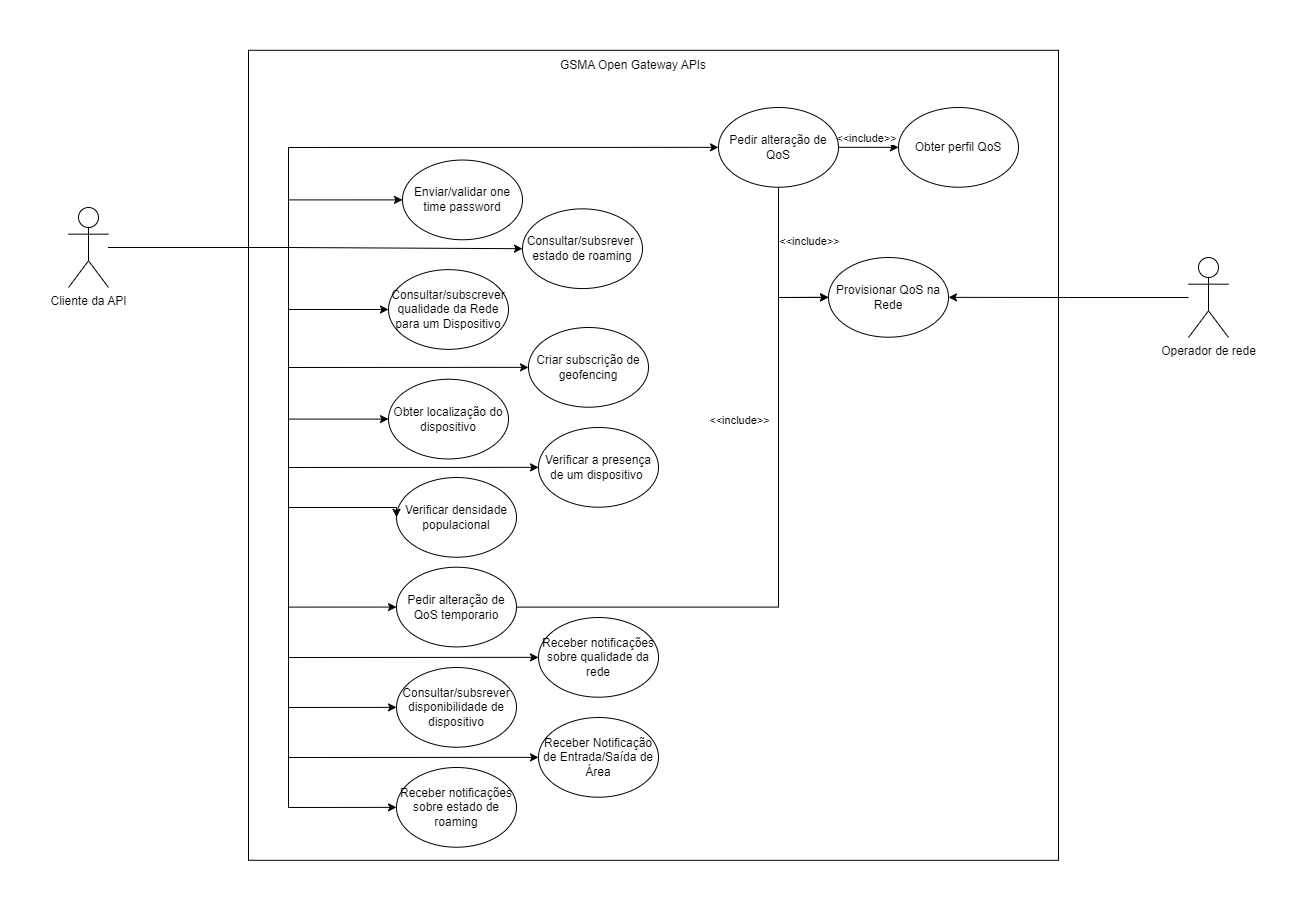
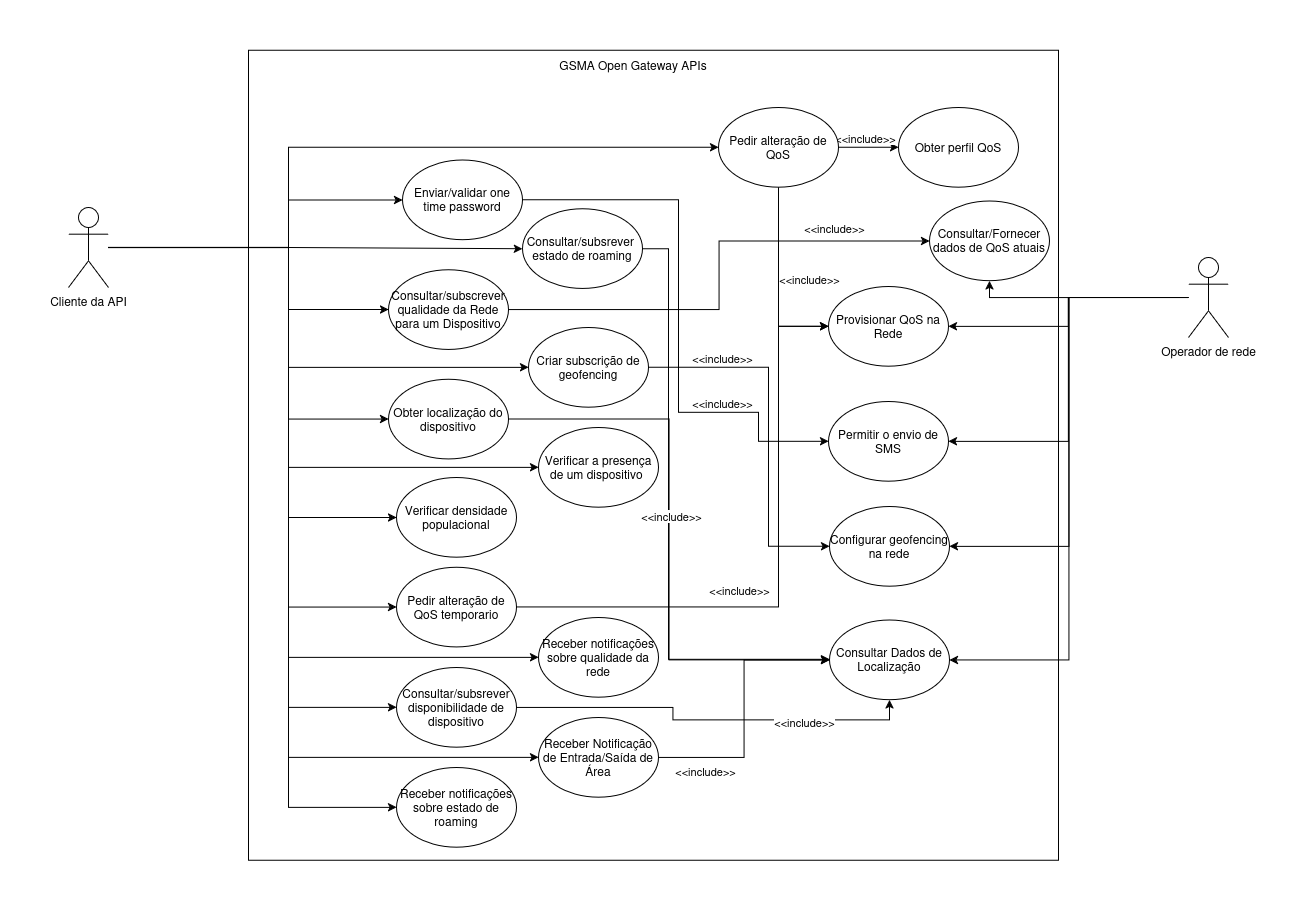
feat(report): Update use cases

diff --git a/report/use-cases.tex b/report/use-cases.tex
@@ -11,7 +11,8 @@ darão ao sistema.
 Como já foi referido, a criação de \emph{APIs GSMA Open Gateway} visa facilitar
 a utilização programática dos diversos recursos e funcionalidades que a rede
 \emph{5G} consegue oferecer. Deste modo, o sistema possui 2 atores distintos.
-\begin{itemize} \item \textbf{Operador de rede} - O primeiro ator a interagir
+\begin{itemize}
+	\item \textbf{Operador de rede} - O primeiro ator a interagir
 	      com o sistema é o operador de rede, que fornece as APIs a diversos outros
 	      negócios para que estes possam interagir com a rede programaticamente. No
 	      entanto, tendo em consideração que as APIs desenhadas pelo \emph{GSMA Open
@@ -50,21 +51,29 @@ Estes são apresentados no diagrama seguinte.
 	      produtos/serviços aos seus clientes, ou para manipular uma rede interna
 	      para melhor se adaptar às suas necessidades. Utilizando as APIs definidas
 	      pelo \emph{GSMA Open Gateway}, os diversos negócios podem:
-	      \begin{enumerate} \item Enviar/Validar One Time Passwords (OTPs), para (por
-		            exemplo) verificar a validade de um número de telefone via SMS \item
-		            Consultar ou subscrever o estado do roaming, de modo a ser possível
-		            verificar se um dispositivo se encontra em outro país. \item Consultar
-		            e/ou subscrever a qualidade da rede para um determinado dispositivo, de
-		            modo a saber se os requisitos de rede para a aplicação podem ser
-		            alcançados, caso seja subscrito, sempre que exista uma alteração na
-		            qualidade será enviada uma notificação.
-
-		      \item Obter a localização de um dado dispositivo \item Verificar a
-		            presença de um dispositivo, isto é, verificar se um determinado
-		            dispositivo se encontra dentro da área definida. \item Verificar a
-		            densidade populacional numa dada zona \item Pedir uma alteração de QoS,
-		            temporário ou não, devido à necessidade de uma largura de banda maior.
-		      \item Receber notificações sobre o estado da rede \item Receber
-		            notificações relativas à entrada ou saída de um dispositivo de uma dada
-		            área \item Subscrever/Consultar a disponibilidade de um dispositivo
+	      \begin{enumerate}
+		      \item Enviar/Validar One Time Passwords (OTPs), para (por exemplo)
+		            verificar a validade de um número de telefone via SMS
+		      \item Consultar ou subscrever o estado do roaming, de modo a ser
+		            possível verificar se um dispositivo se encontra em outro país.
+		      \item Consultar e/ou subscrever a qualidade da rede para um
+		            determinado dispositivo, de modo a saber se os requisitos de rede
+		            para a aplicação podem ser alcançados, caso seja subscrito, sempre
+		            que exista uma alteração na qualidade será enviada uma notificação.
+		      \item Obter a localização de um dado dispositivo
+		      \item Verificar a presença de um dispositivo, isto é, verificar se um
+		            determinado dispositivo se encontra dentro da área definida.
+		      \item Verificar a densidade populacional numa dada zona
+		      \item Ajustar dinamicamente a qualidade do vídeo e o desempenho da
+		            rede, através de geofencing e monitorização de qualidade, para
+		            garantir operações remotas seguras de embarcações em zonas
+		            portuárias congestionadas \cite{10620807}
+		      \item Pedir uma alteração de QoS, temporário ou não, devido à
+		            necessidade de uma largura de banda maior.
+		      \item Receber notificações sobre o estado da rede
+		      \item Receber notificações relativas à entrada ou saída de um
+		            dispositivo de uma dada área
+		      \item Subscrever/Consultar a disponibilidade de um dispositivo
+		      \item Alocar dinamicamente recursos da rede 5G para dar prioridade a
+		            comunicações em casos de emergência \cite{ccam5g}
 	      \end{enumerate} \end{itemize}
